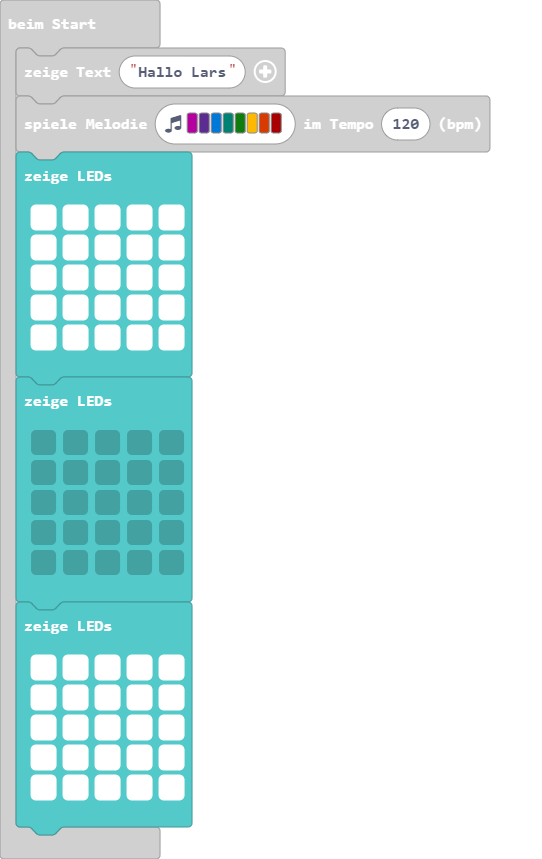
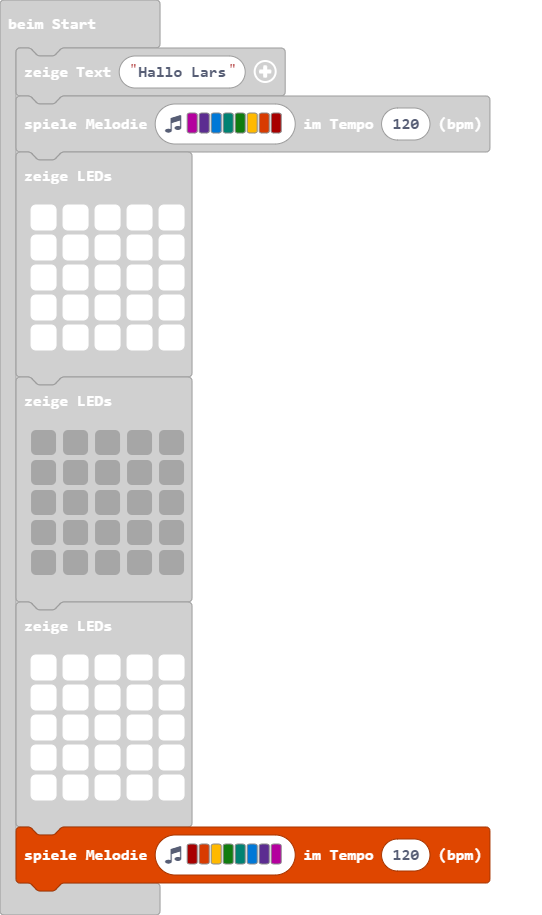
Aktualisiere main.blocks, main.ts

Changed region(s): [[0.0295, 0.0303, 0.9151, 0.9988], [0.0295, 0.0303, 0.059, 0.0605]]

diff --git a/main.ts b/main.ts
@@ -21,6 +21,7 @@ basic.showLeds(`
     # # # # #
     # # # # #
     `)
+music.playMelody("C5 B A G F E D C ", 120)
 basic.forever(function () {
 	
 })
